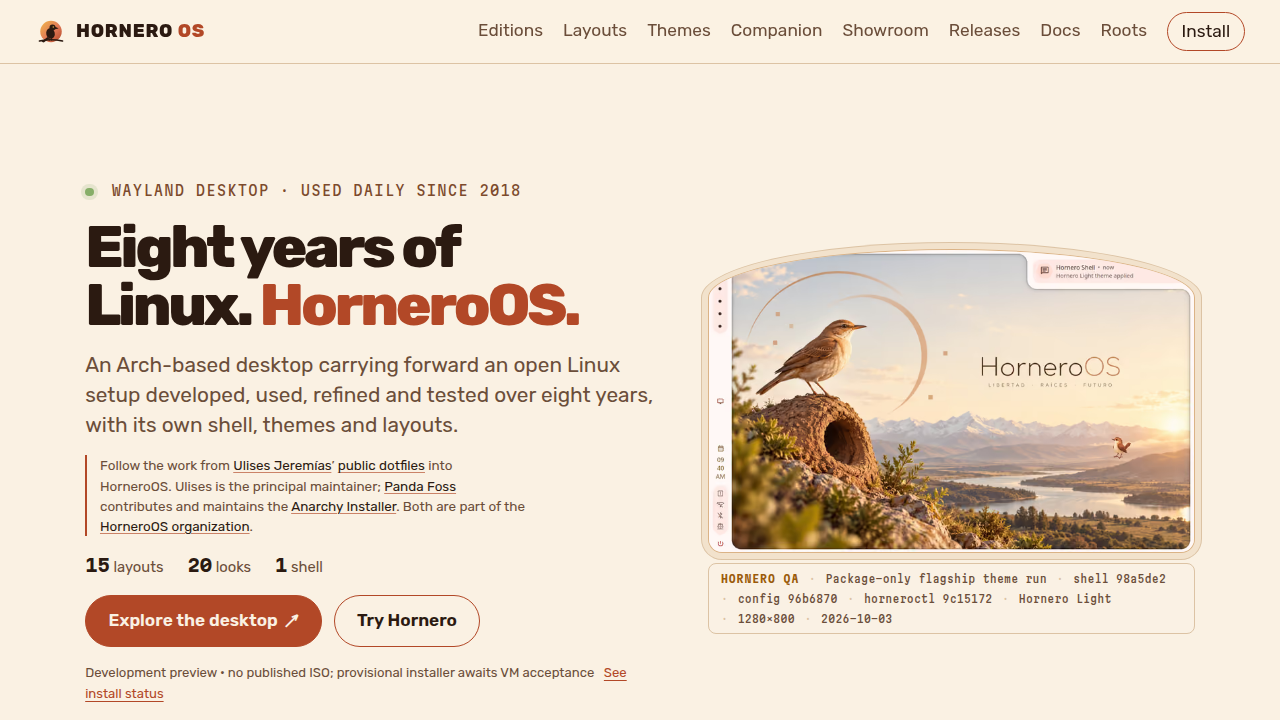
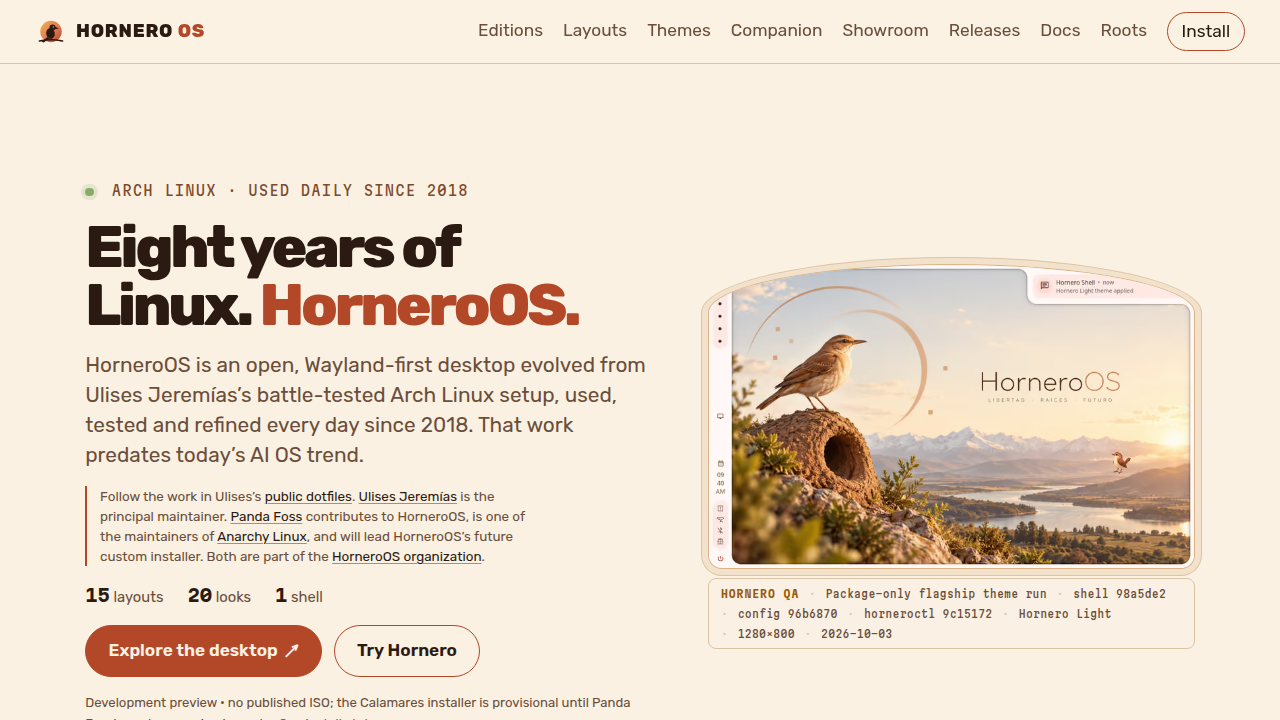
feat(home): clarify HorneroOS origins and installer roles (#45)

diff --git a/.github/evidence/home-provenance/README.md b/.github/evidence/home-provenance/README.md
@@ -3,11 +3,14 @@
 These captures show the static production build of the homepage at desktop and
 mobile sizes. The hero uses a real Hornero QA capture; its provenance plate is
 visible beneath the image. The captures were taken with Playwright Chromium on
-2026-10-06 and reviewed at native size.
+2026-10-06 and reviewed at native size. The first screen credits Ulises
+Jeremías as principal maintainer and Panda Foss as contributor, names Panda's
+Anarchy Linux maintainer role, and explains that he will lead the future custom
+HorneroOS installer.
 
-The first screen states the eight-year Linux origin, links the public dotfiles
-history, names the principal maintainer and contributor, and labels the
-Calamares installer as a provisional development path awaiting VM acceptance.
+The first screen states the eight-year Arch Linux origin, links the public
+dotfiles history, names both maintainers and their roles, and labels the
+Calamares installer as provisional until Panda Foss's custom version is ready.
 
 ## Capture details
 
@@ -15,7 +18,7 @@ Calamares installer as a provisional development path awaiting VM acceptance.
 - Browser: Chromium revision 1247 through Playwright 1.63
 - Desktop: 1280 × 720, [capture](desktop-1280x720.png)
 - Mobile: 390 × 844, [capture](mobile-390x844.png)
[2 lines of base64/hex data omitted]
 
 ## Desktop performance sample
 
@@ -23,19 +26,21 @@ Calamares installer as a provisional development path awaiting VM acceptance.
 |---|---:|---:|
 | Desktop JavaScript transfer (1280 × 720) | 0 B | 0 B |
 | Desktop image transfer | 55,839 B | 55,839 B |
-| Desktop page weight | 180,296 B | 141,885 B |
-| Desktop LCP | 200 ms | 180 ms |
-| Desktop CLS | 0 | 0.0064 |
+| Desktop page weight | 180,296 B | 141,931 B |
+| Desktop LCP | 200 ms | 264 ms |
+| Desktop CLS | 0 | 0 |
 | Mobile JavaScript transfer (390 × 844) | 0 B | 0 B |
-| Mobile image transfer | 24,341 B | 24,341 B |
-| Mobile page weight | 148,798 B | 110,387 B |
-| Mobile LCP | 184 ms | 168 ms |
-| Mobile CLS | 0.00016 | 0.00015 |
+| Mobile image transfer | 24,341 B | 13,954 B |
+| Mobile page weight | 148,798 B | 15,154 B |
+| Mobile LCP | 184 ms | 44 ms |
+| Mobile CLS | 0.00016 | 0 |
 
 Before and after are production static builds served locally and measured in
 fresh Chromium contexts at the same two viewports. Both builds transfer no
-JavaScript. The first-screen content reduces transfer by about 21% on desktop
-and 26% on mobile while retaining the same responsive image bytes. The desktop
-0.0064 layout shift comes from the self-hosted provenance font changing the
-width of metadata tokens after load; it remains below the 0.1 “good” CLS
-threshold.
+JavaScript. The refreshed mobile screenshot uses the smaller responsive hero
+image. Desktop image dimensions and transfer remain unchanged. The refreshed
+copy introduces no measurable layout shift in the local preview. The final
+desktop sample is a fresh Chromium session; the final mobile transfer sample
+is a warm second viewport in that session and is not directly comparable to
+the earlier cold-context mobile sample. These local preview figures are not a
+network-performance claim.
